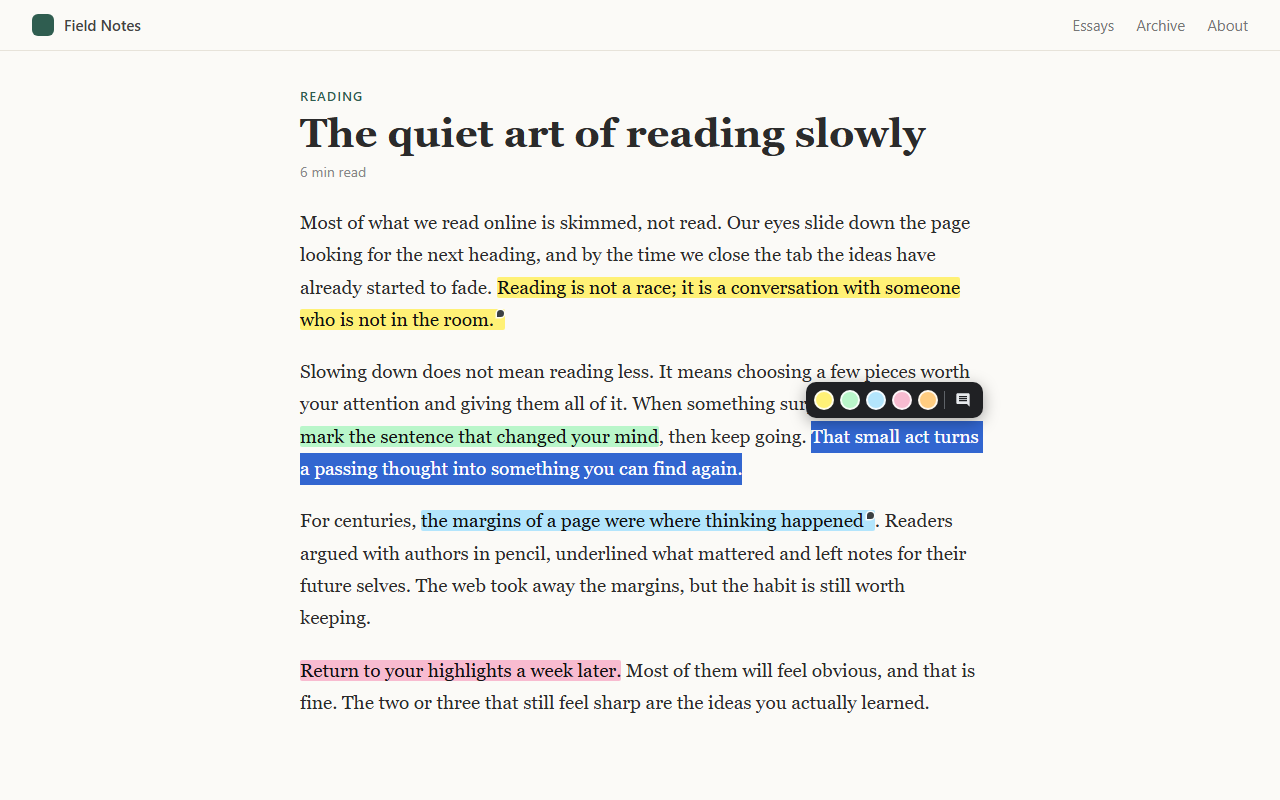
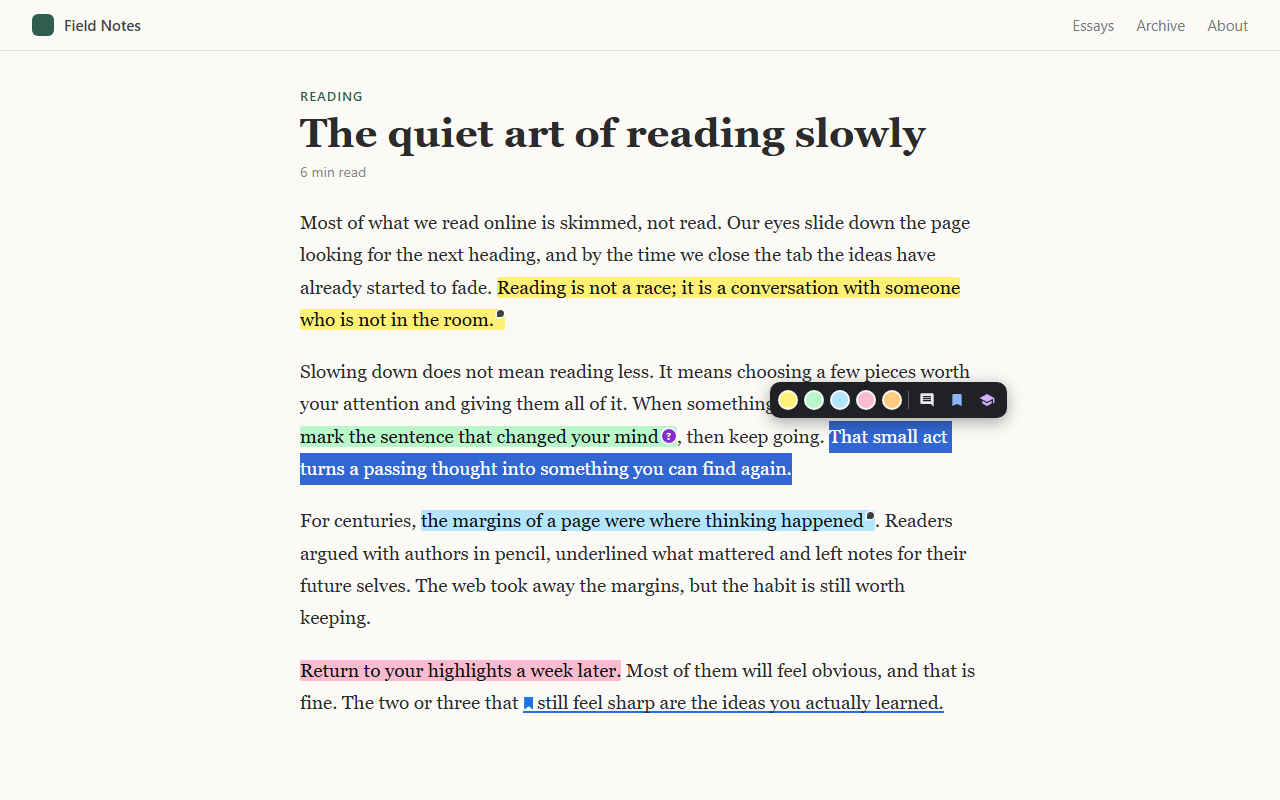
Refresh the store listing and screenshots for every feature
The description gets a section each for notes, bookmarks and Learn more,
plus updated single-purpose and test instructions. New screenshots: the
toolbar with all buttons, the side panel, the popup's Jump to bookmark, the
To learn tab, and writing a learn-more question (replacing the library,
search and note shots).

The screenshot article and sample library now include a bookmark and
learn-more items, preview.html seeds those flags, and its floating popup
mode no longer hides the popup behind the page frame.

Changed region(s): [[0.2188, 0.4688, 0.8125, 0.625], [0.4062, 0.8438, 0.75, 0.9062]]

diff --git a/store/screenshots/article.html b/store/screenshots/article.html
@@ -19,7 +19,7 @@
   </head>
   <body>
     <!-- Sample article for the store screenshots (original text). Open with ?stub to run
-         the extension on it; &scene=marks|toolbar|edit|note sets up what the screenshot shows. -->
+         the extension on it; &scene=marks|toolbar|edit|note|learn sets up what the screenshot shows. -->
     <header class="site">
       <span class="logo"></span> Field Notes
       <nav><span>Essays</span><span>Archive</span><span>About</span></nav>
@@ -51,15 +51,20 @@
 
     <script src="../../test/load-extension.js"></script>
     <script>
-      // Highlights to create, in order (with an optional note), and what each scene adds on top.
+      // Highlights to create, in order, with an optional note and whether each is a
+      // bookmark or marked "learn more"; each scene adds something on top.
+      const LEARN_QUESTION = 'Why does marking a sentence help me remember it?';
       const MARKS = [
-        ['Reading is not a race; it is a conversation with someone who is not in the room.', 'yellow', 'Opening line for my talk on attention?'],
-        ['mark the sentence that changed your mind', 'green'],
-        ['the margins of a page were where thinking happened', 'blue', 'Compare with the essay on marginalia in old books.'],
-        ['Return to your highlights a week later.', 'pink']
+        ['Reading is not a race; it is a conversation with someone who is not in the room.', 'yellow', { note: 'Opening line for my talk on attention?' }],
+        ['mark the sentence that changed your mind', 'green', { learn: true, note: LEARN_QUESTION }],
+        ['the margins of a page were where thinking happened', 'blue', { note: 'Compare with the essay on marginalia in old books.' }],
+        ['Return to your highlights a week later.', 'pink'],
+        // Phrases must sit on one source line: the page text keeps the HTML's line breaks.
+        ['still feel sharp are the ideas you actually learned.', 'yellow', { bookmark: true }]
       ];
       // Typed into the note editor in the "note" scene.
       const NOTE_DRAFT = 'Set a weekly reminder: review highlights every Sunday morning.';
+      const LEARN_PROMPT = 'What do you want to learn about this?';
       const scene = new URLSearchParams(location.search).get('scene');
       window.__sceneReady = !scene; // test/preview.html waits for this before opening its UI
 
@@ -84,20 +89,31 @@
         };
 
         await __hlSend({ type: 'clear' });
-        for (const [phrase, color, note] of MARKS) {
+        for (const [phrase, color, { note, learn, bookmark } = {}] of MARKS) {
           await useColor(color);
           select(phrase);
           await __hlSend({ type: 'highlight-selection' });
+          const { id } = HL.store.all().at(-1);
           if (note) {
-            const { id } = HL.store.all().at(-1);
             HL.marker.setNote(id, note);
             await HL.store.setNote(id, note);
+          }
+          if (learn) {
+            HL.marker.setLearn(id, true);
+            await HL.store.setLearn(id, true);
+          }
+          if (bookmark) {
+            HL.marker.setBookmark(id);
+            await HL.store.update(id, { bookmark: true });
           }
         }
         await useColor('yellow');
 
         const pinkMark = () => document.querySelector('mark.hl-mark[data-hl-color="pink"]');
+        const greenMark = () => document.querySelector('mark.hl-mark[data-hl-color="green"]');
         const showNoteEditor = () => HL.toolbar.showNote(pinkMark().getBoundingClientRect(), { text: NOTE_DRAFT });
+        const showLearnEditor = () =>
+          HL.toolbar.showNote(greenMark().getBoundingClientRect(), { text: LEARN_QUESTION, placeholder: LEARN_PROMPT });
 
         // Show the toolbars through the same mouseup handling a real click uses.
         const showToolbar = () => {
@@ -120,6 +136,13 @@
             const rect = pinkMark().getBoundingClientRect();
             pinkMark().dispatchEvent(new MouseEvent('mouseup', { bubbles: true, button: 0, clientX: rect.left + 10, clientY: rect.top + 5 }));
             setTimeout(showNoteEditor, 20); // after the edit toolbar the click opens
+          } else if (scene === 'learn') {
+            // The moment after clicking Learn more: the passage has its "?" and the
+            // note box asks what to learn.
+            getSelection().removeAllRanges();
+            const rect = greenMark().getBoundingClientRect();
+            greenMark().dispatchEvent(new MouseEvent('mouseup', { bubbles: true, button: 0, clientX: rect.left + 10, clientY: rect.top + 5 }));
+            setTimeout(showLearnEditor, 20);
           }
         };
         showToolbar();
@@ -136,6 +159,8 @@
             HL.toolbar.show(mark.getBoundingClientRect(), { mode: 'edit', color: 'green' });
           } else if (scene === 'note') {
             showNoteEditor(); // re-place it for the new window size
+          } else if (scene === 'learn') {
+            showLearnEditor();
           }
         });
         await wait(100);

diff --git a/test/preview.html b/test/preview.html
@@ -17,7 +17,7 @@
            side=right           put the UI on the right, where Chrome's side panel is
            float                (popup) float over the page at the top right
            seed[=<json>]        first add sample pages: the built-in set, or a JSON file of
-                                [{ url, title, highlights: [{ id, color, text, daysAgo, note? }] }]
+                                [{ url, title, highlights: [{ id, color, text, daysAgo, note?, bookmark?, learn? }] }]
            view=page|pages|timeline, search=<text>   (library) starting view and search
          Reload to re-open the UI. store/screenshots/capture.ps1 uses this page. -->
     <iframe id="site" title="Page"></iframe>
@@ -66,6 +66,9 @@
           frame.style.width = float ? '100vw' : `calc(100vw - ${width + 1}px)`;
           frame.style[onRight ? 'left' : 'right'] = '0';
           if (!float) frame.style[onRight ? 'borderRight' : 'borderLeft'] = '1px solid #ccc';
+          // A floating popup is the <body>; keep the page frame outside it, or the frame
+          // (positioned, later in the body) paints over the popup's content.
+          if (float) document.documentElement.insertBefore(frame, document.body);
           frame.src = page;
           // Wait for the page's content script (and any screenshot scene) to finish.
           await new Promise((resolve) => {
@@ -99,6 +102,9 @@
 
         const body = document.body.style;
         if (float) {
+          // Without a background of its own, <html> takes over the body's, and the
+          // floating popup would be see-through.
+          document.documentElement.style.background = '#fff';
           Object.assign(body, {
             position: 'fixed',
             top: '8px',
@@ -155,7 +161,9 @@
               quote: { exact: h.text, prefix: '', suffix: '' },
               position: { start: i * 1000, end: i * 1000 + h.text.length },
               createdAt: now - h.daysAgo * 86400000,
-              ...(h.note ? { note: h.note } : {})
+              ...(h.note ? { note: h.note } : {}),
+              ...(h.bookmark ? { bookmark: true } : {}),
+              ...(h.learn ? { learn: true } : {})
             }))
           };
         }

diff --git a/store/listing.md b/store/listing.md
@@ -19,29 +19,40 @@ Upload `dist/highlight-<version>.zip` built by `store/package.ps1`.
 
 **Summary** (from `manifest.json`, max 132 characters)
 
-> Highlight words and sentences on any web page and add notes. Highlights are saved per page and restored when you come back.
+> Highlight text on any page, add notes, bookmark your place and mark what to learn later. Everything comes back when you return.
 
 **Description**
 
 ```text
-Highlight words and sentences on any web page, like a highlighter pen, and find them again later.
+Highlight words and sentences on any web page, add your own notes, bookmark where you stopped reading, and mark what you want to learn more about. Everything is saved per page and comes back when you return.
 
 HIGHLIGHT AS YOU READ
 • Select text and pick one of five colors from the small toolbar, or press Alt+Shift+H.
-• Click a highlight to change its color, add a note, copy it, or remove it.
-• Add a note to any highlight. A small badge marks it on the page; hover to read the note.
-• Bookmark a line to keep your place. Next time, click Jump to bookmark in the toolbar popup to go straight back to it.
+• Click a highlight to recolor it, copy it, or remove it.
 • Highlights come back automatically when you return to the page, even if the page has changed a little.
+
+ADD NOTES
+• Add a note to any highlight, right on the page. A small badge marks highlights with notes; hover to read the note.
+• Edit notes on the page or in the library. Search and exports include them.
+
+BOOKMARK YOUR PLACE
+• Select a line and click the bookmark button to mark where you stopped. Each page keeps one bookmark.
+• Next time, click the toolbar icon, then Jump to bookmark to go straight back to that line.
+
+LEARN MORE LATER
+• Found something you don't fully understand? Click the Learn more button (graduation cap) and write down your question.
+• A "?" badge marks the passage on the page, and the To learn tab in the library collects these passages from every page.
+• Click Got it once you understand. The highlight and your question stay.
 
 ONE LIBRARY FOR EVERYTHING
 • See every highlight from every page in Chrome's side panel (Alt+Shift+L) or in a full tab.
 • Search highlight text, notes, page titles and sites. Filter by color. Sort by date, site or number of highlights.
-• Browse page by page, or as a timeline with the newest first.
+• Browse page by page, as a timeline, or as your To learn list.
 • Click any highlight to jump straight to it on its page.
 • Recolor or delete from the library, with undo. Open tabs update instantly.
 
 EXPORT AND BACK UP
-• Export highlights as Markdown for your notes.
+• Export highlights, notes, bookmarks and Learn more items as Markdown.
 • Save everything to a JSON backup and import it again, for example on another computer.
 
 PRIVATE BY DESIGN
@@ -61,11 +72,11 @@ Works on most web pages. Chrome doesn't allow extensions on chrome:// pages, the
 
 | File | Shows |
 | --- | --- |
-| `store/screenshots/1-highlight.png` | Highlights on an article (badges mark the ones with notes) and the toolbar over a selection |
-| `store/screenshots/2-side-panel.png` | The side panel listing the current page's highlights and their notes |
-| `store/screenshots/3-library.png` | The full-tab library with highlights and notes grouped by page |
-| `store/screenshots/4-search.png` | Searching all highlights and notes, in timeline view |
-| `store/screenshots/5-note.png` | Writing a note on a highlight |
+| `store/screenshots/1-highlight.png` | An article with highlights, note badges, a "?" (learn more) and a bookmark ribbon; the toolbar over a selection shows the note, bookmark and learn-more buttons |
+| `store/screenshots/2-side-panel.png` | The side panel listing the page's highlights with notes, a Learn more item and the bookmark |
+| `store/screenshots/3-bookmark.png` | The toolbar popup with Jump to bookmark |
+| `store/screenshots/4-to-learn.png` | The library's To learn tab: passages marked to learn more, with questions, from several sites |
+| `store/screenshots/5-learn.png` | Writing the question for a passage marked to learn more |
 
 Small promo tile (440×280) and marquee (1400×560) are optional and not included.
 
@@ -73,7 +84,7 @@ Small promo tile (440×280) and marquee (1400×560) are optional and not include
 
 **Single purpose**
 
-> Highlight text on web pages and add optional notes to those highlights, keep them on the user's device, and let the user browse, search and manage them in a library.
+> Highlight text on web pages, with optional notes, a bookmark per page and "learn more" marks; keep them on the user's device, and let the user browse, search and manage them in a library.
 
 **Permission justifications**
 
@@ -112,4 +123,4 @@ GitHub Pages publishes `docs/` from the `main` branch of `PreveenGit/Highlight-a
 
 ## Test instructions tab (optional)
 
-> No account or setup is needed. Open any article, select a sentence, and click a color in the toolbar that appears (or press Alt+Shift+H). Click the highlight to recolor or delete it. Reload the page: the highlight is restored. Click the toolbar icon for the page's highlights, and press Alt+Shift+L (or the side-panel button in the popup) to open the library.
+> No account or setup is needed. Open any article, select a sentence, and click a color in the toolbar that appears (or press Alt+Shift+H). Click the highlight to recolor or delete it. Reload the page: the highlight is restored. In the toolbar, the speech-bubble button adds a note, the bookmark button bookmarks the line (the toolbar icon's popup then shows Jump to bookmark), and the graduation-cap button marks a passage to learn more and asks for a question. Press Alt+Shift+L (or the side-panel button in the popup) to open the library; the To learn tab lists passages marked to learn more.
